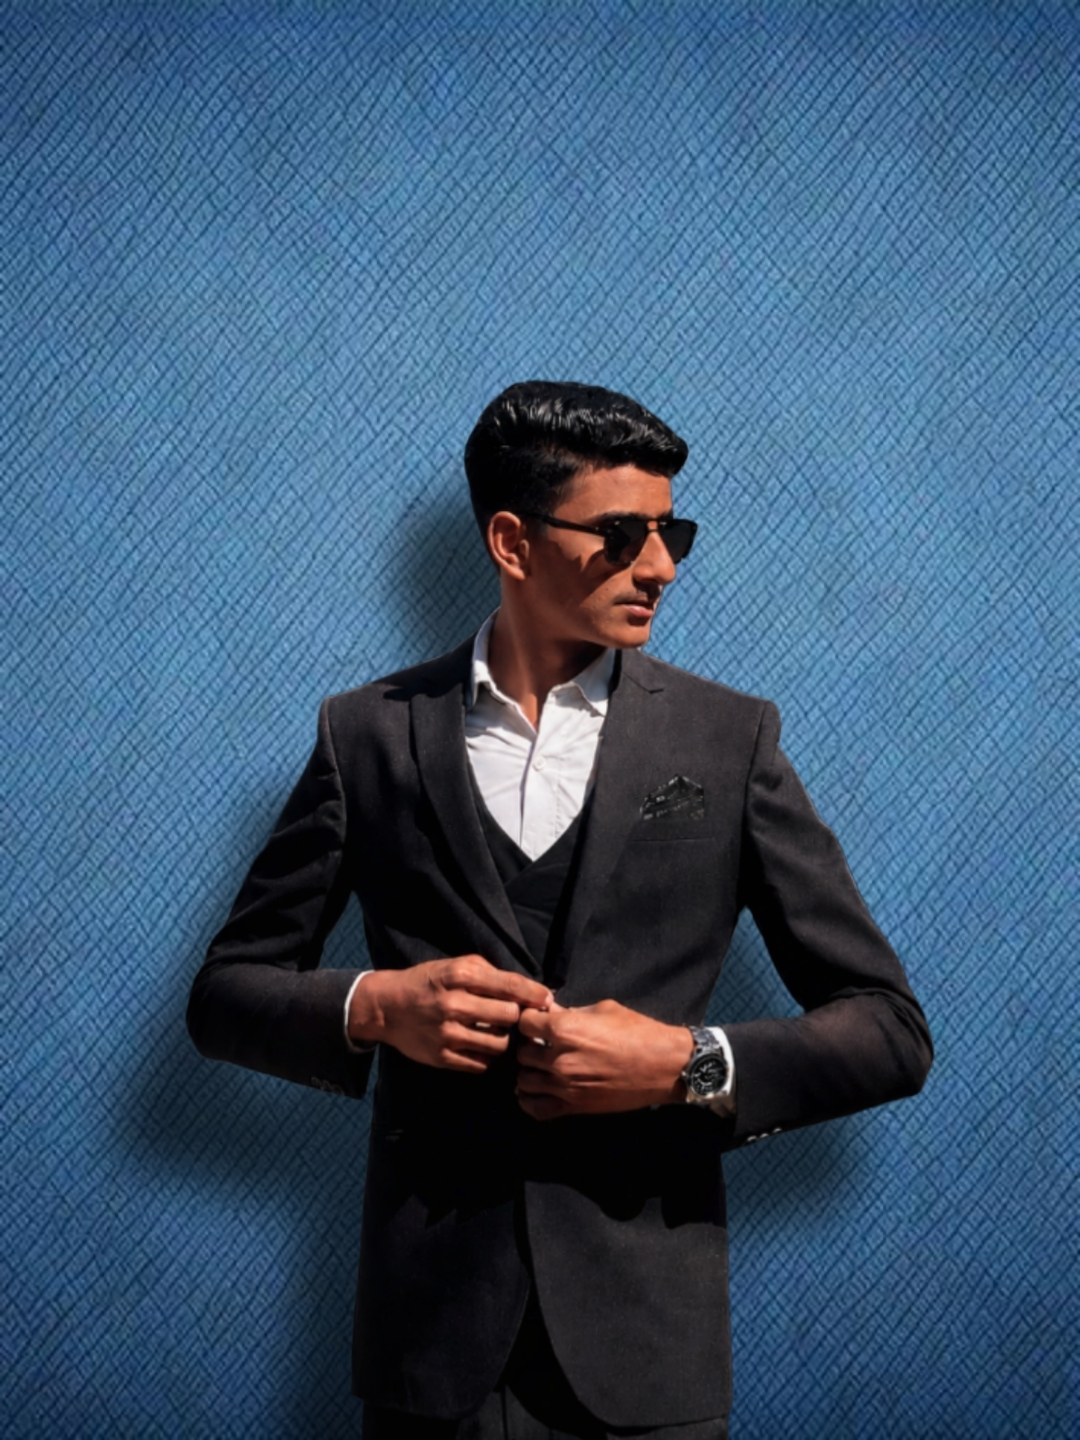
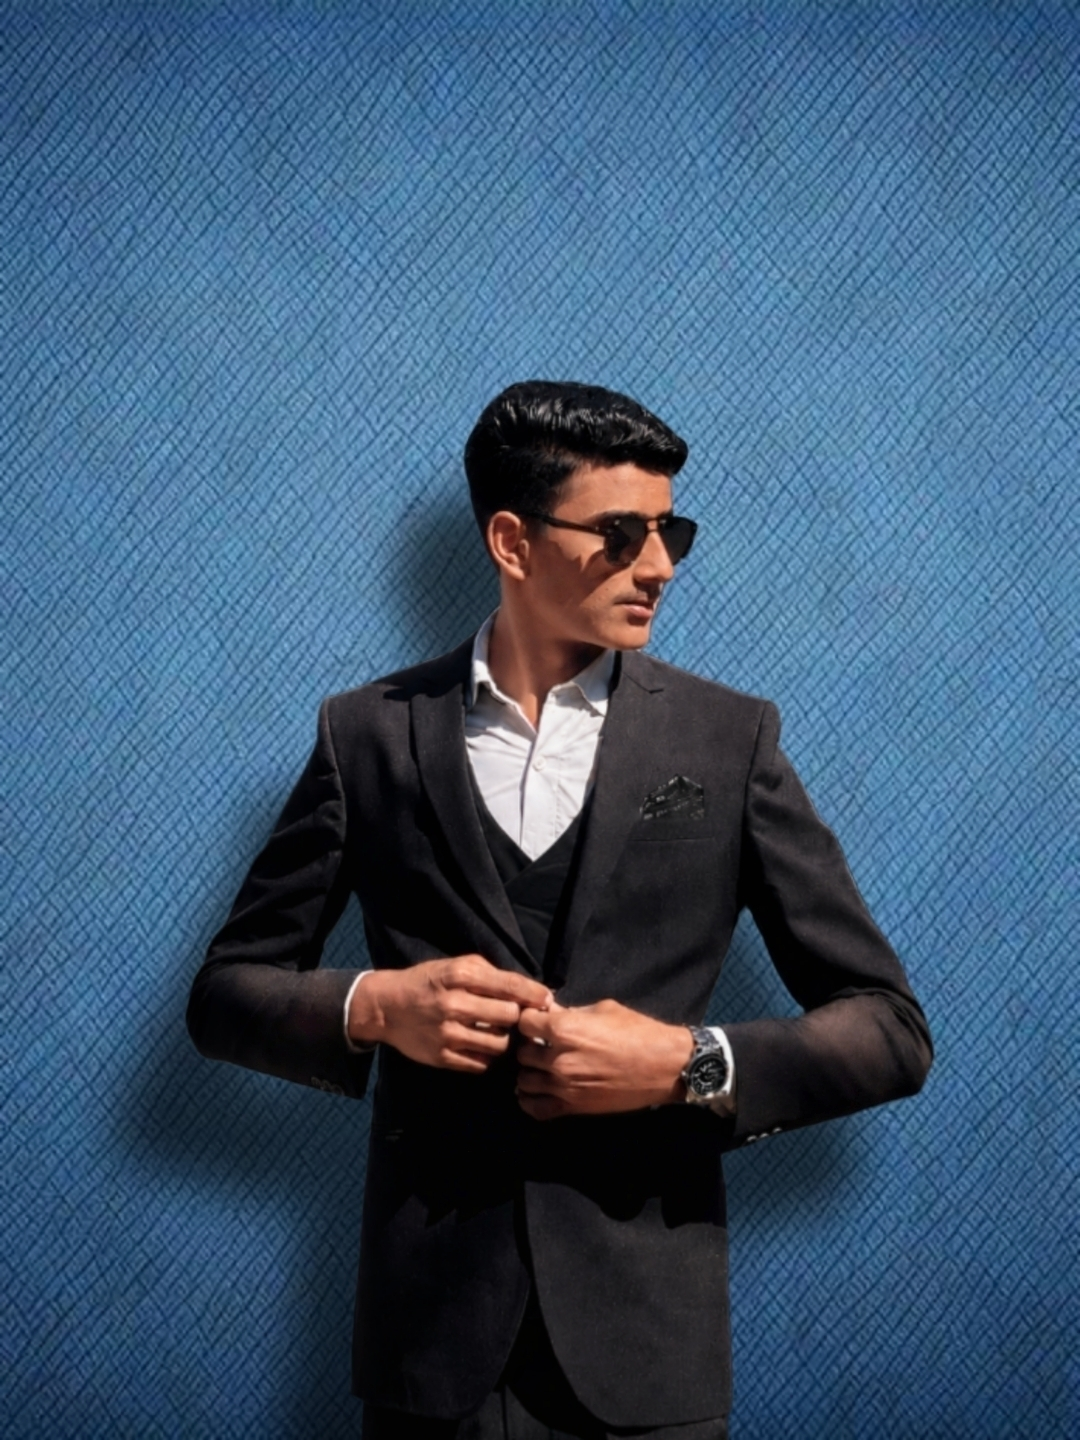
Update hero image and desktop crop

diff --git a/app/page.tsx b/app/page.tsx
@@ -174,7 +174,7 @@ export default function Home() {
         className="relative min-h-[112vh] overflow-hidden bg-[#050816]"
       >
         <div
-          className="absolute inset-0 origin-center bg-cover bg-center"
+          className="absolute inset-0 origin-center bg-cover bg-[center_35%]"
           style={{
             ...heroImageStyle,
             backgroundImage:
@@ -430,28 +430,26 @@ export default function Home() {
       {/* JOURNAL */}
       <section className="border-t border-white/10 bg-[#070b1c]">
         <div className="mx-auto max-w-7xl px-5 py-24 sm:px-6 sm:py-32">
-          <div className="flex flex-col gap-8 rounded-3xl border border-white/10 bg-[#080d20] p-8 sm:p-10 lg:flex-row lg:items-end lg:justify-between">
-            <div>
-              <p className="text-xs uppercase tracking-[0.3em] text-cyan-400 sm:text-sm">
-                05 / Journal
-              </p>
+          <div
+            className="group cursor-pointer rounded-3xl border border-white/10 bg-[#080d20] p-8 transition hover:border-cyan-400/40 sm:p-10"
+            onClick={() => window.location.href="/journal"}
+          >
+            <p className="text-xs uppercase tracking-[0.3em] text-cyan-400 sm:text-sm">
+              05 / Journal
+            </p>
 
-              <h2 className="mt-5 text-4xl font-semibold tracking-tight sm:text-5xl">
-                Learning in public.
-              </h2>
+            <h2 className="mt-5 text-4xl font-semibold tracking-tight sm:text-5xl">
+              Learning in public.
+            </h2>
 
-              <p className="mt-5 max-w-2xl text-lg leading-8 text-slate-400">
-                A place for notes, experiments, observations and the progress
-                behind the work.
-              </p>
-            </div>
+            <p className="mt-5 max-w-2xl text-lg leading-8 text-slate-400">
+              A place for notes, experiments, observations and the progress
+              behind the work.
+            </p>
 
-            <button
-              onClick={() => window.location.href="/journal"}
-              className="w-fit rounded-full border border-white/20 px-6 py-3 text-sm font-semibold text-white transition hover:border-cyan-400 hover:text-cyan-300"
-            >
+            <div className="mt-8 text-sm font-semibold text-cyan-400 transition group-hover:translate-x-1">
               Open Journal →
-            </button>
+            </div>
           </div>
         </div>
       </section>
